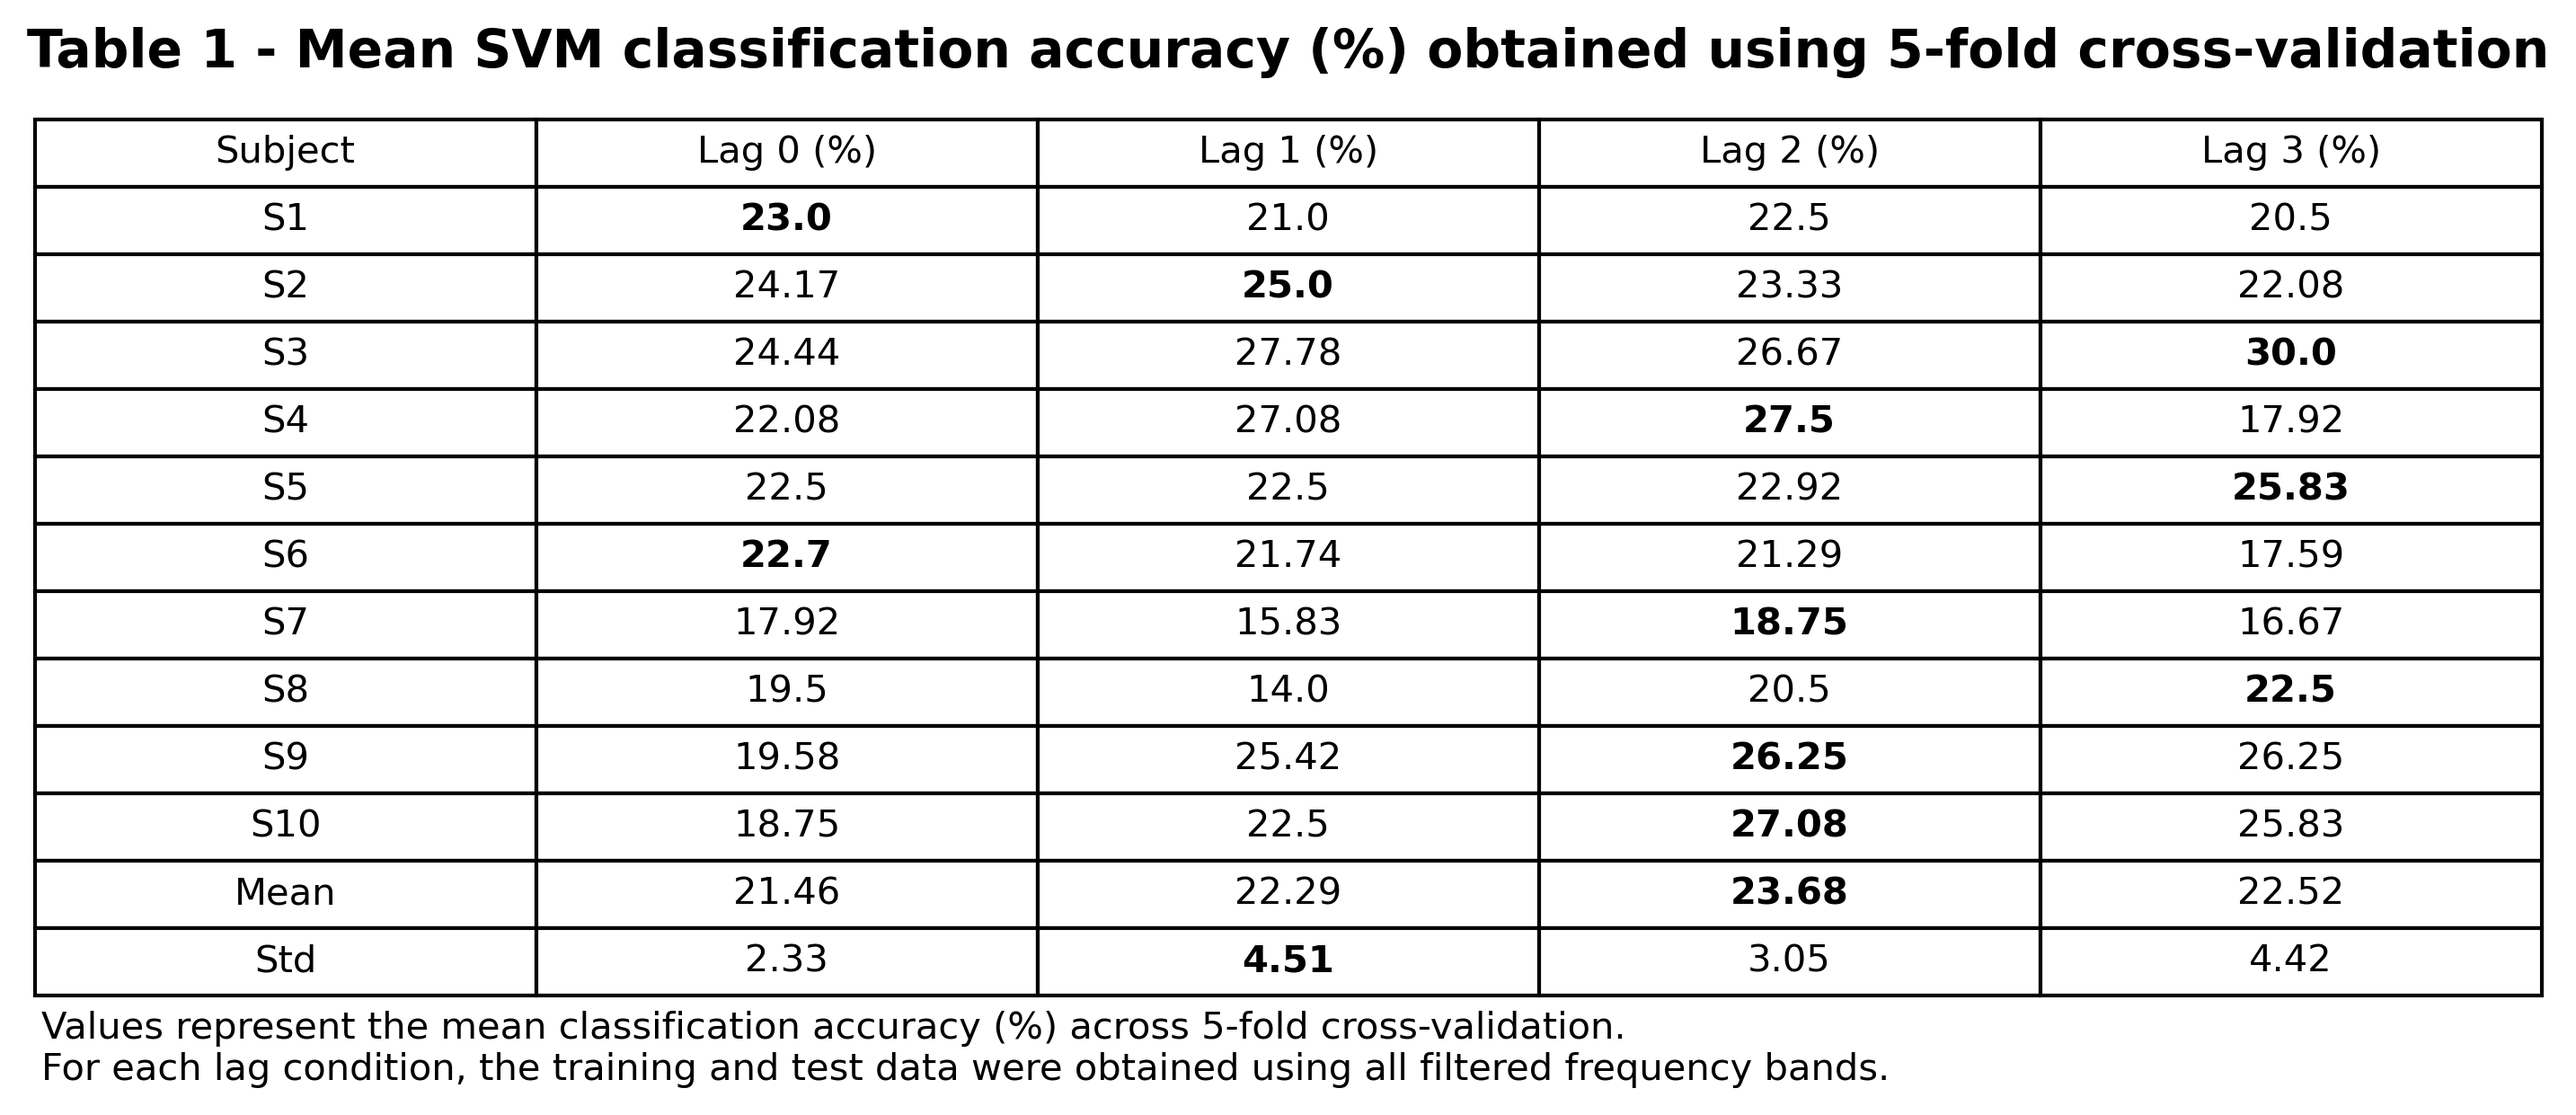
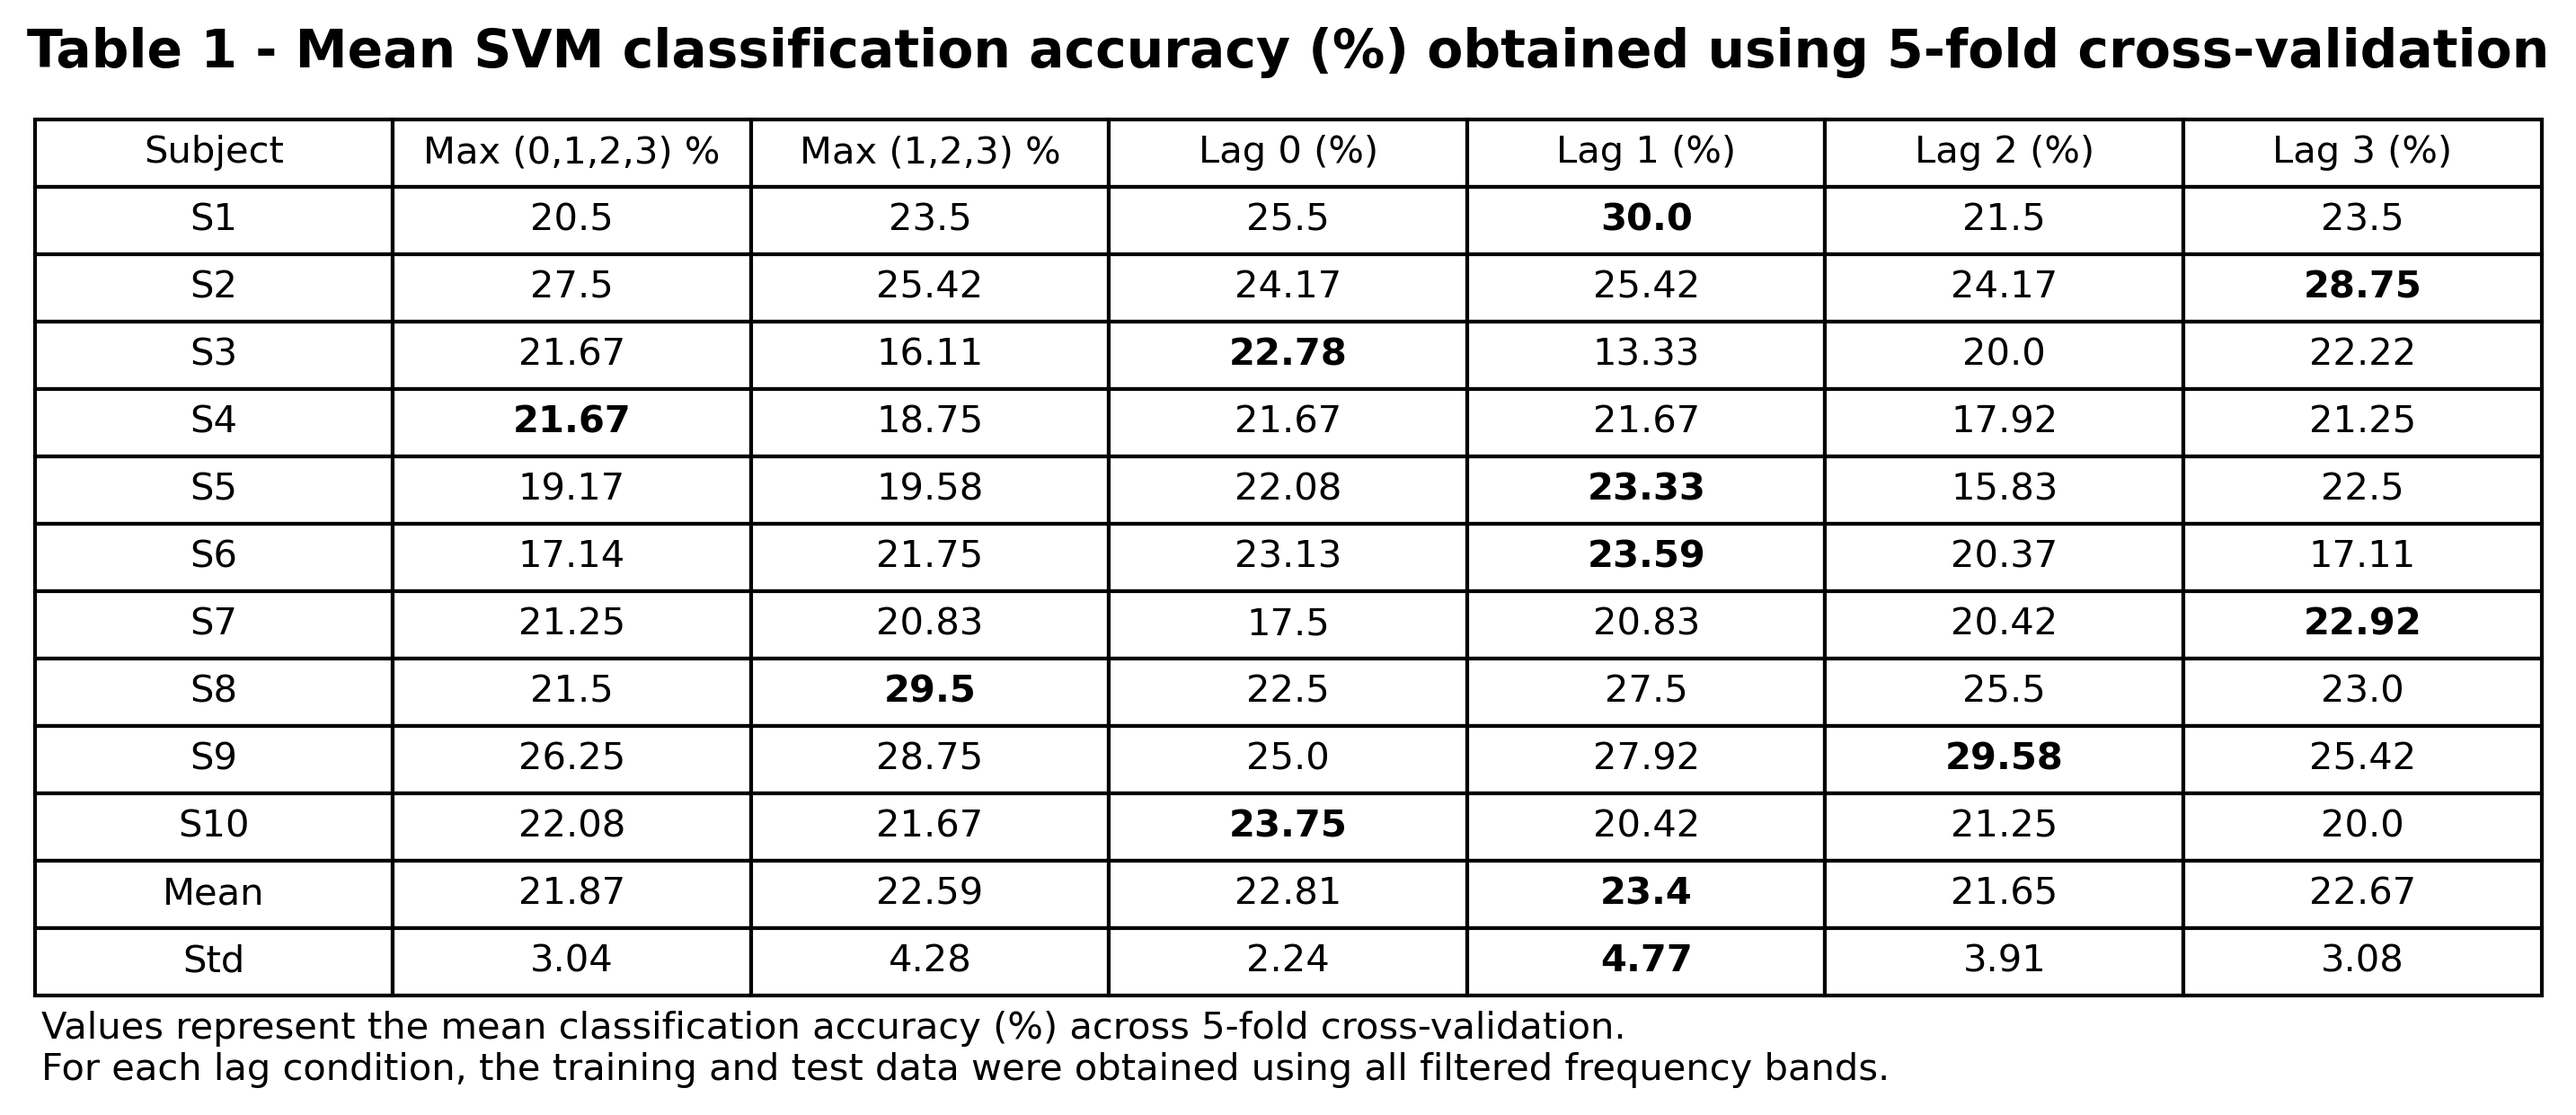
competed accuracy table

diff --git a/pipeline/stage_100_generate_results/generate_accuracy_table.py b/pipeline/stage_100_generate_results/generate_accuracy_table.py
@@ -23,6 +23,9 @@ result_name = "accuracy_table"
 base_path = project_root / "processed_data" / "stage_80_lag_based_SVM"
 output_path = project_root / "results" / current_file.parents[0].name / result_name
 
+base_path_maximum_matrix = project_root / "processed_data" / "stage_90_maximum_matrix_based_SVM"
+
+
 os.makedirs(output_path, exist_ok=True)
 
 subjects = [f"sub-{i:02d}" for i in range(1, 11)]
@@ -46,16 +49,37 @@ def run_generate_accuracy_table():
         with open(file_path, "rb") as f:
             results = pickle.load(f)
 
+        file_path_max_matrices = os.path.join(
+            base_path_maximum_matrix,
+            f"{subject}_maximum_matrices_svm_results.pkl"
+        )
+
+        if not os.path.exists(file_path_max_matrices):
+            print(f"Arquivo não encontrado: {file_path_max_matrices}")
+            continue
+        
+        with open(file_path_max_matrices, "rb") as f:
+            results_max_matrices = pickle.load(f)
+
         row = {
             "Subject": subject
         }
 
+
+        # Obtendo as acurácias para cada lag
         for lag_name in results[subject]:
 
             mean_acc = results[subject][lag_name]["mean_accuracy"]
 
             row[lag_name] = mean_acc * 100
 
+
+        # obtendo as acurácias da matriz de máximo
+        for max_type in results_max_matrices[subject]:
+
+            mean_acc = results_max_matrices[subject][max_type]["mean_accuracy"]
+
+            row[max_type] = mean_acc * 100        
 
         rows.append(row) 
 
@@ -88,6 +112,8 @@ def run_generate_accuracy_table():
 
     desired_order = [
         "Subject",
+        "max_0_1_2_3",
+        "max_1_2_3",
         "lag_0",
         "lag_1",
         "lag_2",
@@ -98,6 +124,8 @@ def run_generate_accuracy_table():
 
     # Renomeando colunas
     df = df.rename(columns={
+        "max_0_1_2_3": "Max (0,1,2,3) %",
+        "max_1_2_3": "Max (1,2,3) %",
         "lag_0": "Lag 0 (%)",
         "lag_1": "Lag 1 (%)",
         "lag_2": "Lag 2 (%)",

diff --git a/main.py b/main.py
@@ -12,20 +12,20 @@ from pipeline.stage_100_generate_results.generate_confusion_matrix_for_maximum_m
 
 def main():
 
-    run_band_filtering_and_epoch()
+    #run_band_filtering_and_epoch()
     #run_motif_sequence()
     #run_synchronization_matrix()
 
     #run_maximum_matrix()
 
-    run_maximum_matrix()
+    #run_maximum_matrix()
 
     #run_synchronization_matrix_graph_measure()
     #run_maximum_matrix_graph_measure()
 
     #run_lag_based_SVM()
 
-    #run_generate_accuracy_table()
+    run_generate_accuracy_table()
 
     #run_maximum_matrix()
 
